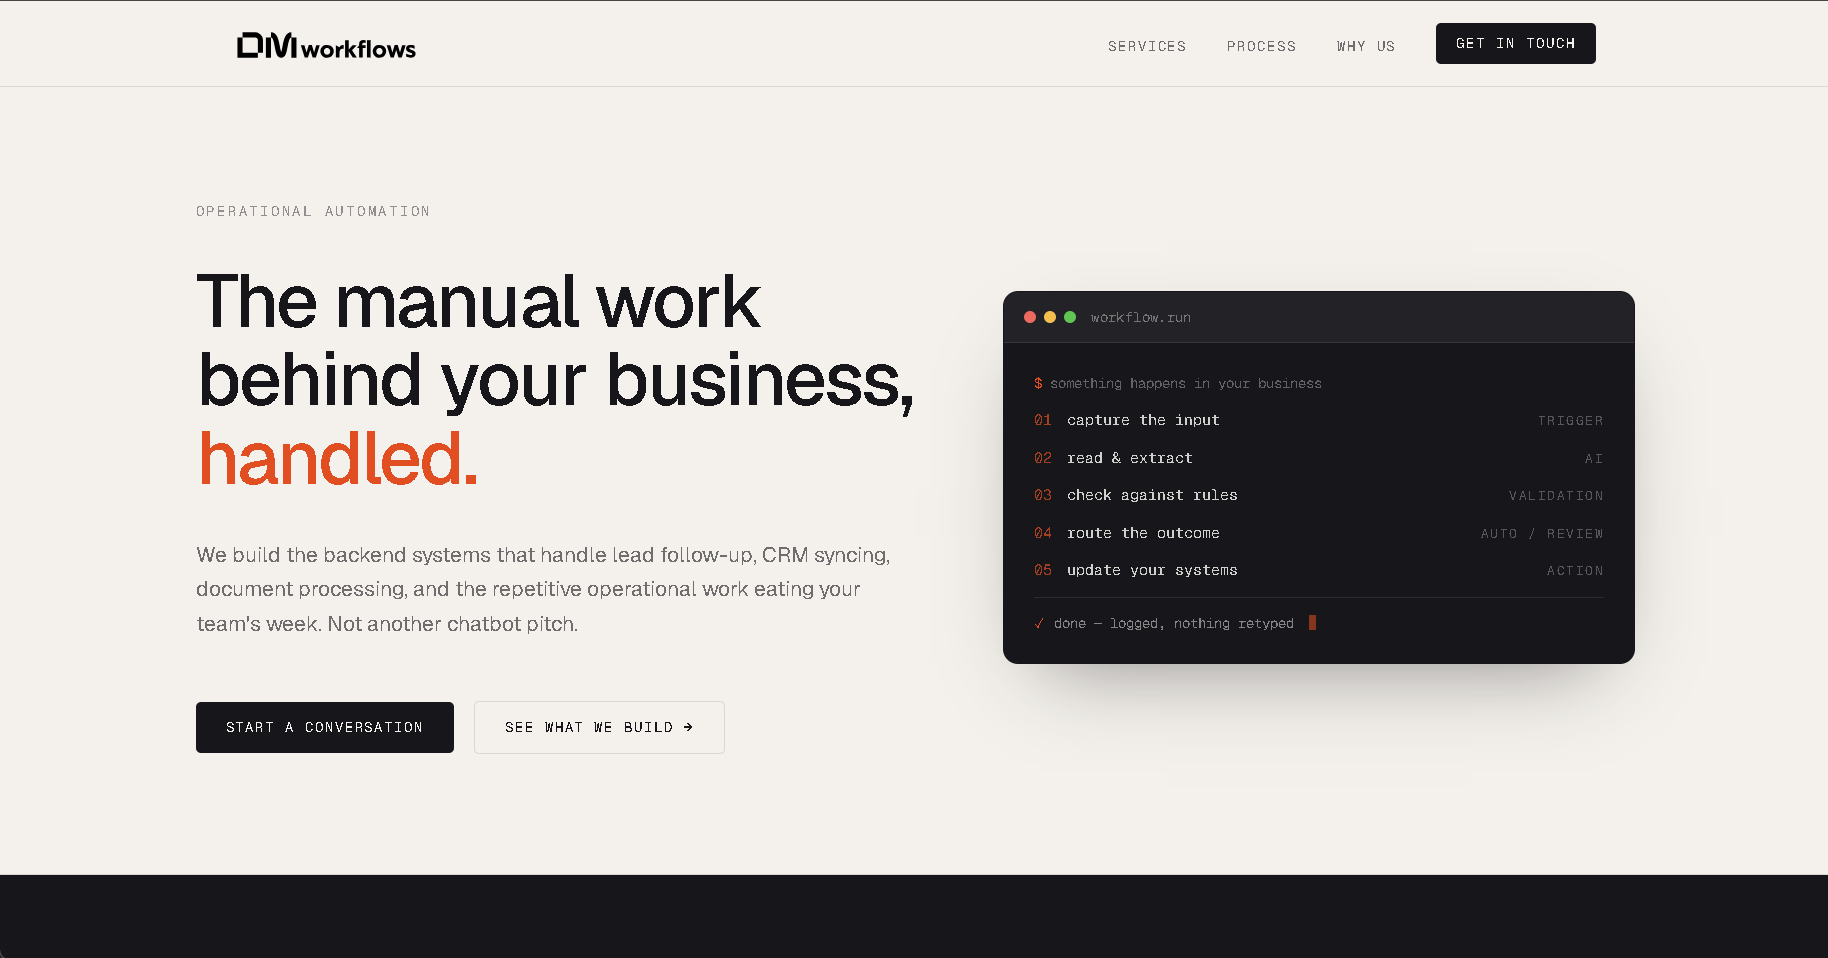
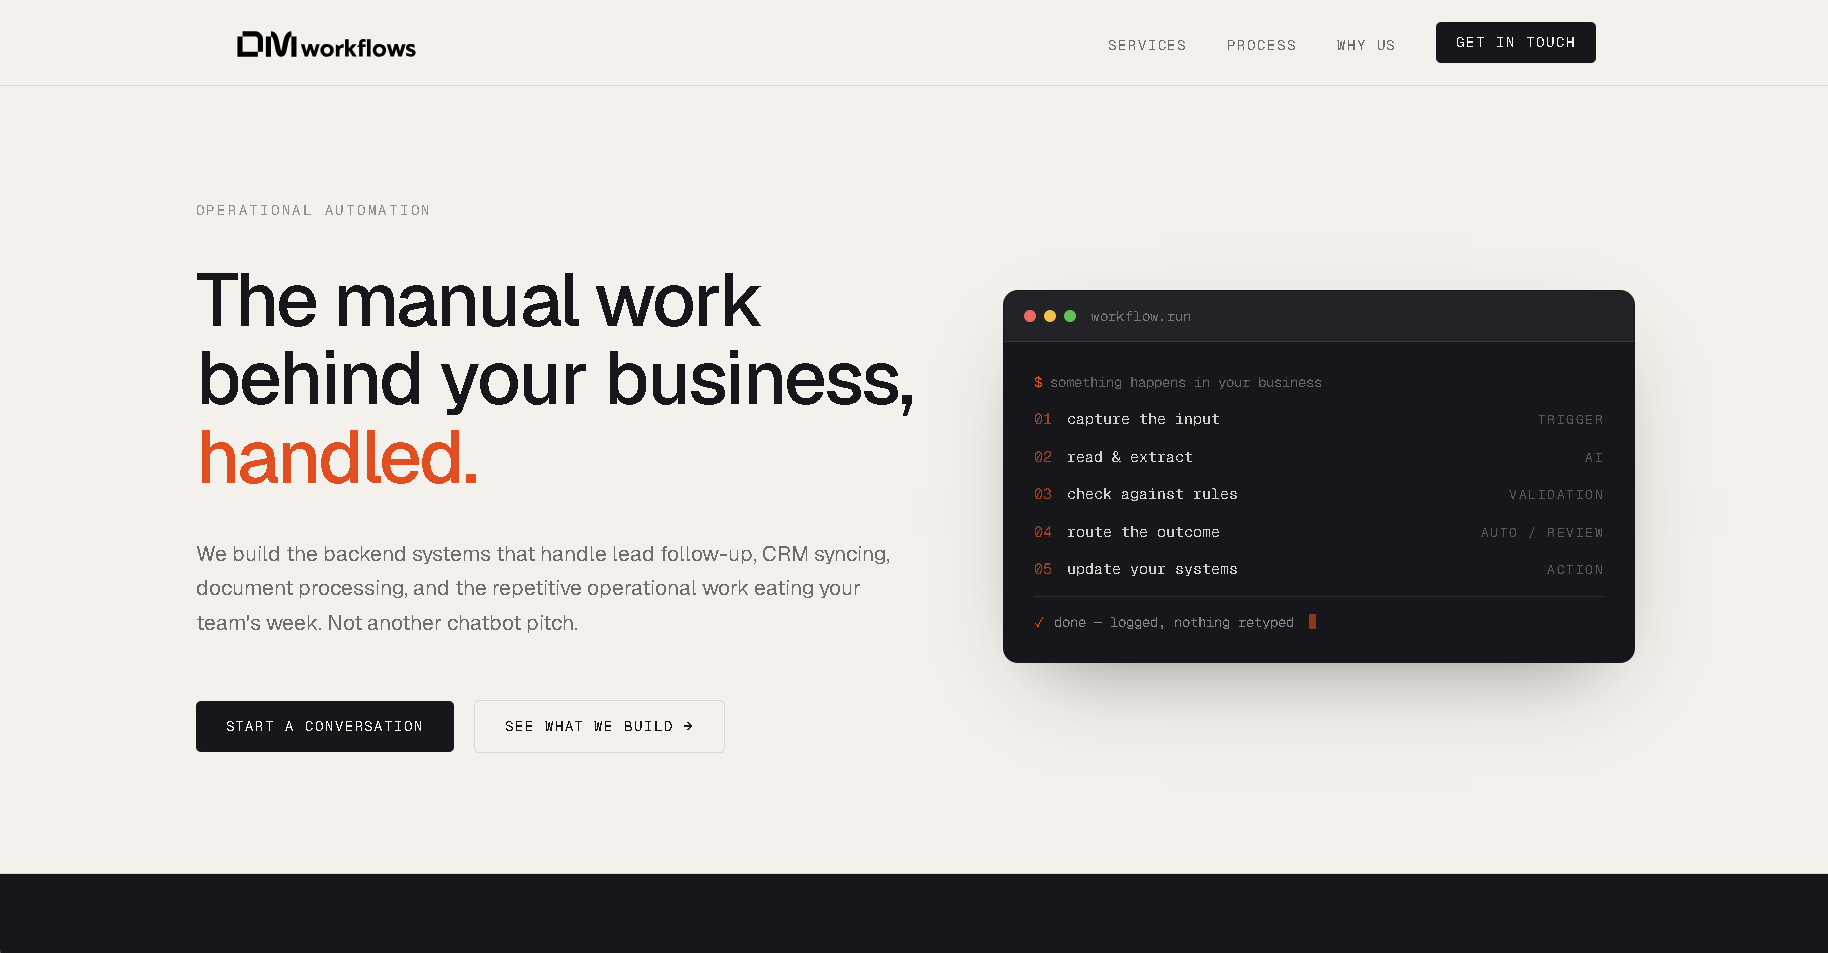
Works: add VOYA as project 3, update titles and images

diff --git a/src/components/ui/WorkVisual.tsx b/src/components/ui/WorkVisual.tsx
@@ -139,6 +139,40 @@ const SCREEN_SLOTS: Record<1 | 2 | 3, ScreenSlot[]> = {
   ],
 };
 
+function ScreenImage({
+  src,
+  alt,
+  fallbackRatio,
+}: {
+  src?: string;
+  alt: string;
+  fallbackRatio: string;
+}) {
+  const [failed, setFailed] = useState(false);
+
+  if (!src || failed) {
+    return (
+      <div
+        aria-hidden="true"
+        className="w-full bg-ink/6"
+        style={{ aspectRatio: fallbackRatio }}
+      />
+    );
+  }
+
+  return (
+    <Image
+      src={src}
+      alt={alt}
+      width={0}
+      height={0}
+      sizes={IMAGE_SIZES}
+      onError={() => setFailed(true)}
+      className="block h-auto w-full"
+    />
+  );
+}
+
 function ScreensVisual({
   screens,
   title,
@@ -150,7 +184,7 @@ function ScreensVisual({
   const slots = SCREEN_SLOTS[Math.max(shown.length, 1) as 1 | 2 | 3];
 
   return (
-    <div className="relative aspect-5/4 w-[min(90cqw,112cqh)]">
+    <div className="relative aspect-5/4 w-[min(100cqw,125cqh)]">
       {shown.map((screen, i) => {
         const slot = slots[i];
         return (
@@ -161,7 +195,6 @@ function ScreensVisual({
               left: `${slot.left}%`,
               top: `${slot.top}%`,
               width: `${slot.width}%`,
-              aspectRatio: slot.ratio,
               zIndex: i + 1,
             }}
           >
@@ -170,12 +203,11 @@ function ScreensVisual({
                 {screen.label}
               </figcaption>
             )}
-            <div className="absolute inset-0 overflow-hidden">
-              <FrameImage
-                src={screen.image}
-                alt={screen.label ?? `${title} screen ${i + 1}`}
-              />
-            </div>
+            <ScreenImage
+              src={screen.image}
+              alt={screen.label ?? `${title} screen ${i + 1}`}
+              fallbackRatio={slot.ratio}
+            />
           </figure>
         );
       })}

diff --git a/src/components/sections/Works.tsx b/src/components/sections/Works.tsx
@@ -34,7 +34,7 @@ const WORKS: WorkItem[] = [
     },
   },
   {
-    title: "Project Two",
+    title: "Project\nTwo",
     category: "AI automation",
     description:
       "Placeholder description. Replace with one or two lines on what the automation does and the result.",
@@ -56,25 +56,20 @@ const WORKS: WorkItem[] = [
       ],
     },
   },
-  {
-    title: "Project Three",
-    category: "UI/UX design",
+    {
+    title: "VOYA\nTravel",
+    category: "Web development",
     description:
-      "Placeholder description. Replace with one or two lines on the design problem and what you delivered.",
+      "Landing page for a fictional adventure travel company. Dark editorial design, scroll animations, responsive layout, working contact form.",
     stack: [
-      { name: "Figma" },
-      { name: "Design tokens" },
-      { name: "Prototyping" },
-      { name: "Handoff" },
+      { name: "HTML5" },
+      { name: "Tailwind CSS", icon: "/icons/stack/frontend/tailwindcss.svg" },
+      { name: "JavaScript" },
     ],
-    link: "#", // placeholder, swap for the real link
+    link: "https://github.com/mors-codes/voya",
     visual: {
-      type: "screens",
-      screens: [
-        { image: "/images/works/project-3.png", label: "Home" },
-        { label: "Dashboard" },
-        { label: "Settings" },
-      ],
+      type: "browser",
+      image: "/images/works/project-3.png",
     },
   },
 ];
